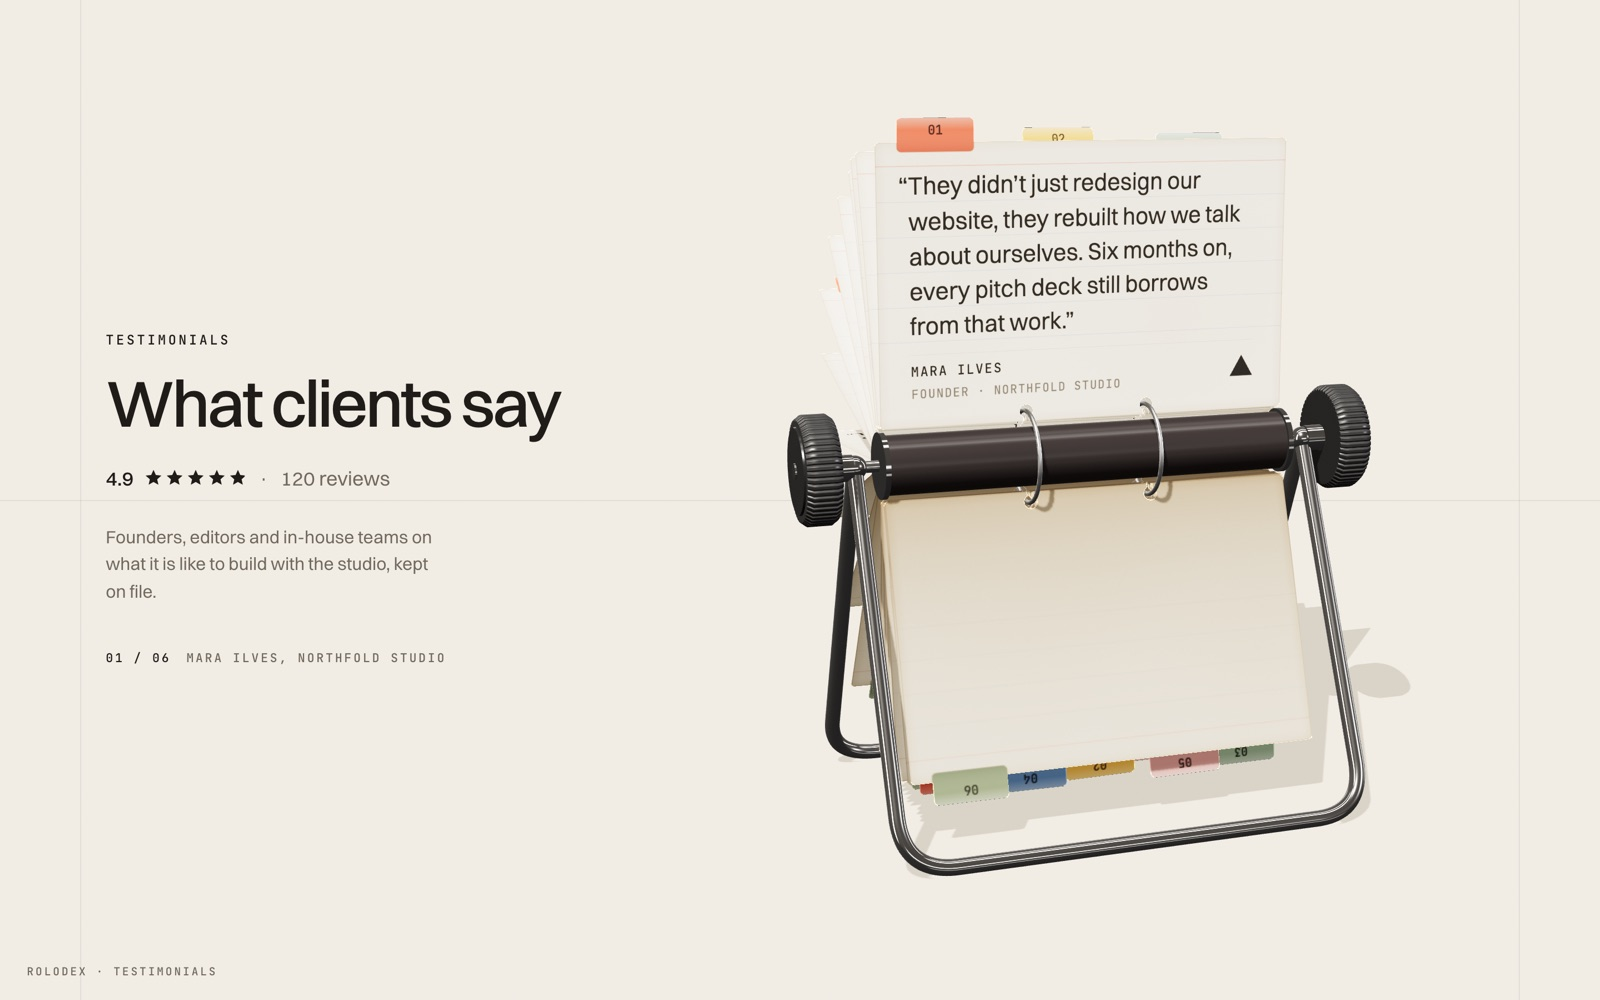
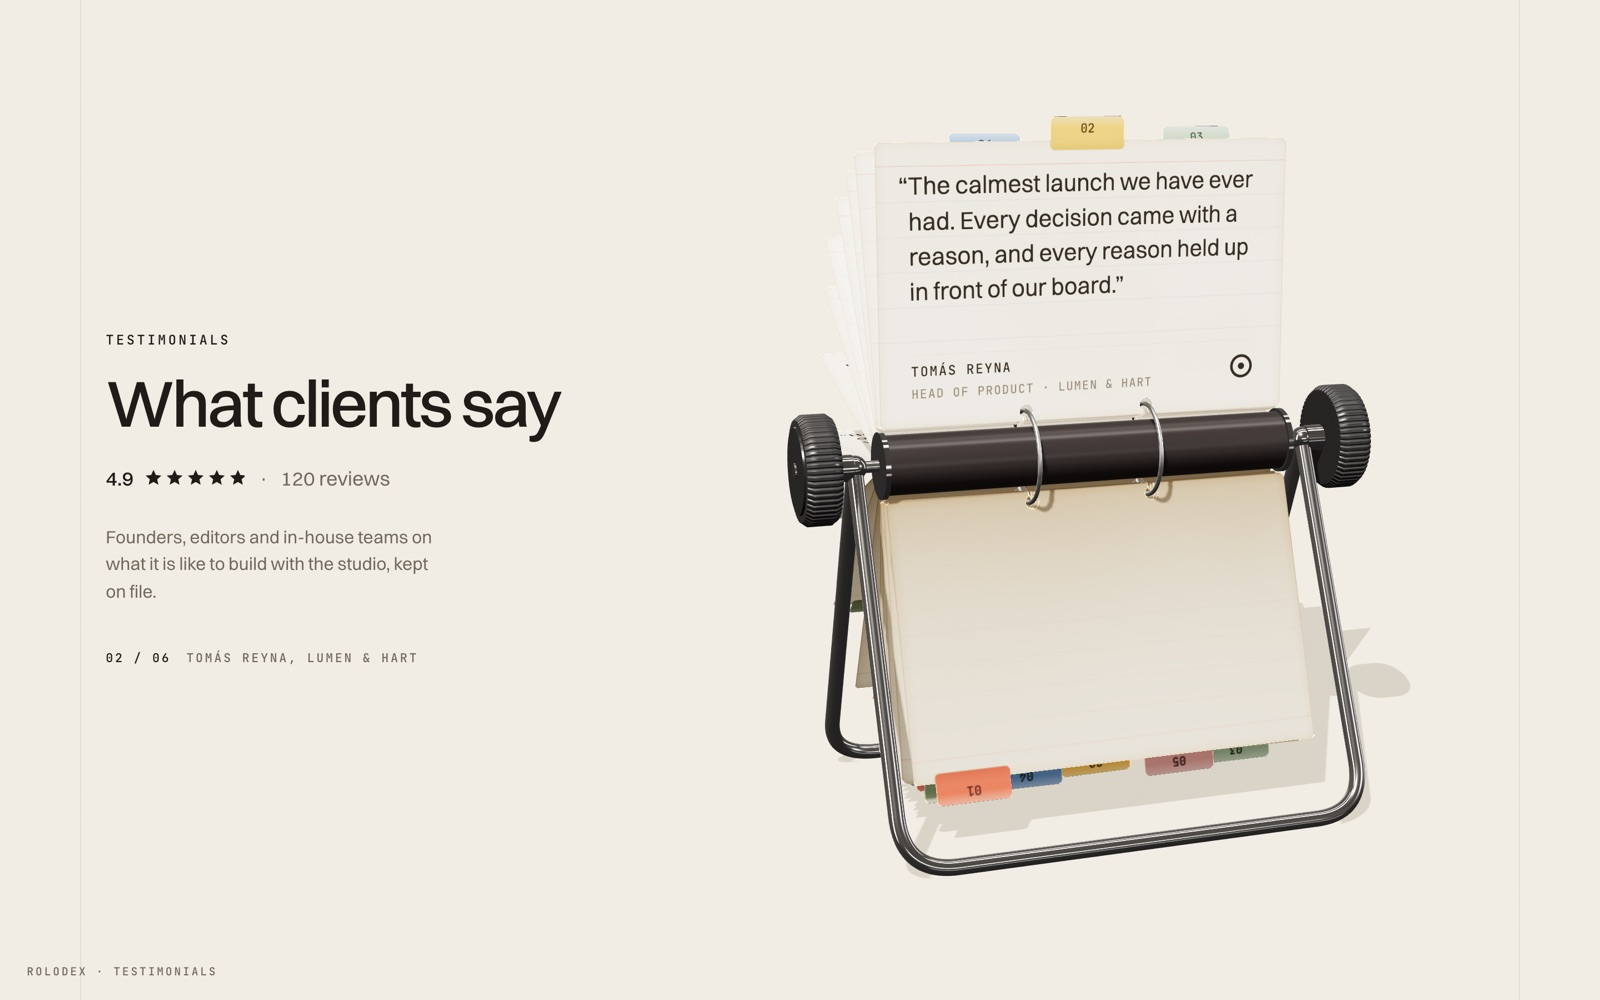
Remove the horizontal hairline

diff --git a/index.html b/index.html
@@ -23,7 +23,6 @@ body{margin:0;min-height:100vh;background:var(--paper);color:var(--ink);font-fam
 .tst::before,.tst::after{content:"";position:absolute;top:0;bottom:0;width:1px;background:var(--hair);pointer-events:none}
 .tst::before{left:clamp(24px,5vw,88px)}
 .tst::after{right:clamp(24px,5vw,88px)}
-.hline{position:absolute;left:0;right:0;height:1px;background:var(--hair);pointer-events:none}
 
 .intro{position:relative;z-index:1;padding-left:clamp(0px,1.6vw,28px)}
 .eyebrow{margin:0 0 22px;font:500 12px/1 var(--mono);letter-spacing:.18em;text-transform:uppercase;color:var(--ink)}
@@ -85,7 +84,6 @@ body{margin:0;min-height:100vh;background:var(--paper);color:var(--ink);font-fam
 </style></head>
 <body>
 <section class="tst" id="testimonials" role="region" aria-roledescription="carousel" aria-labelledby="tst-h">
-  <div class="hline" style="top:50%" aria-hidden="true"></div>
   <div class="intro">
     <p class="eyebrow" id="tst-eyebrow"></p>
     <h2 id="tst-h"></h2>
